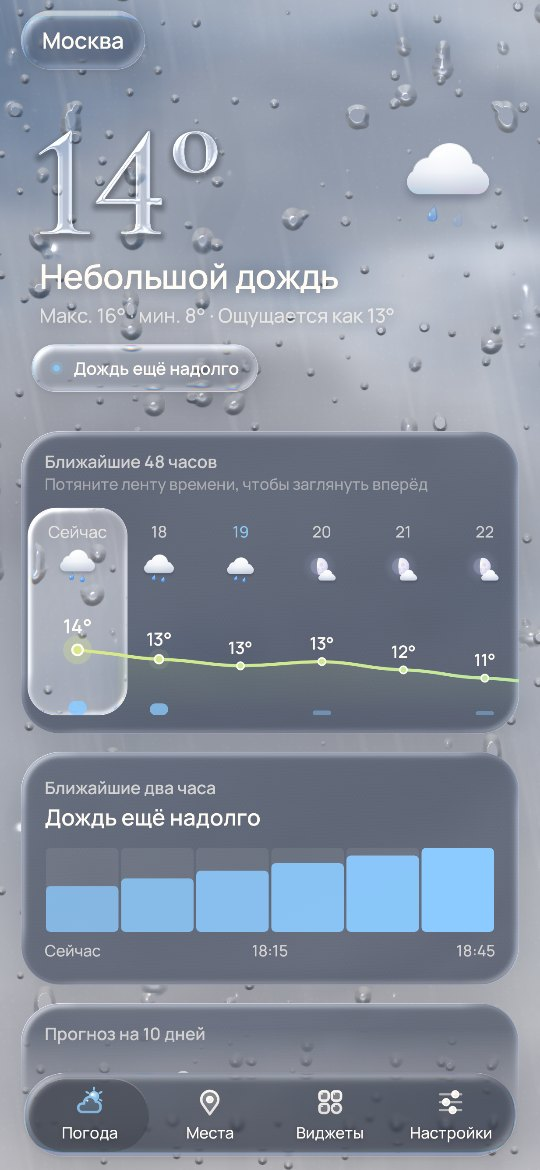
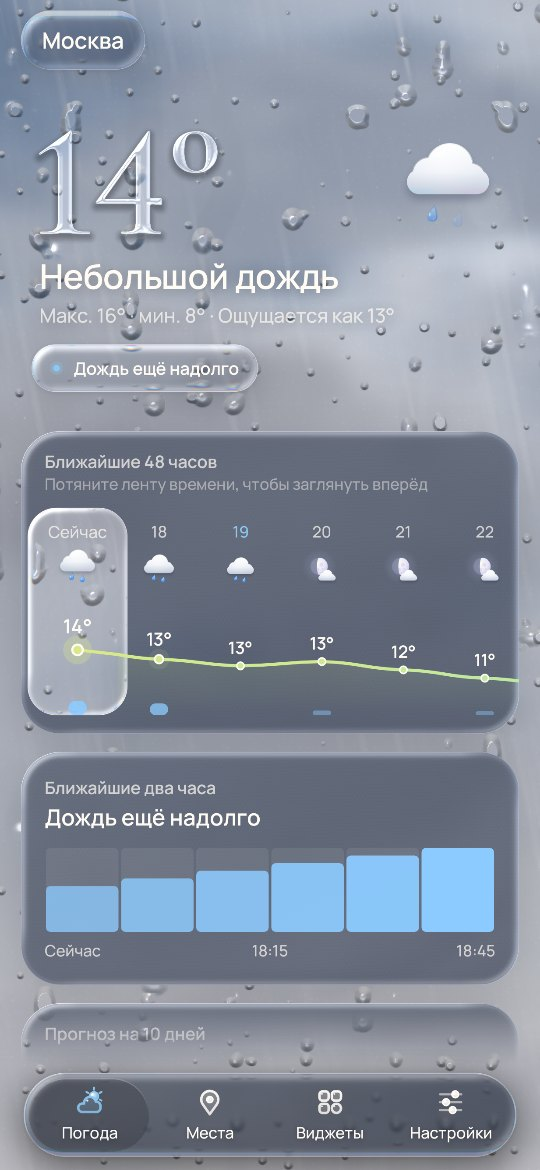
Tab bar: a layer of its own, apart from the content (2.6.1)
On the phone at night the bar and the 10-day card under it ran together.
Both were the same dark glass with the same rim, and the card's rows
went straight into the bar, so the menu read as part of the app.

- Content fades out before the bar. Whatever scrolls toward the bar has
  dissolved into the sky within 40 dp of it, so the bar floats in a band
  of clear sky. Screens keep room below their content for the band, so
  the last card still scrolls fully into view.
- A deep shadow under the bar that shows even over a night sky or a
  dark card.
- A tone of its own: by night the bar's glass is a little lighter than
  the cards' dark glass, and on a bright day a little darker.
- A crisp edge all round: light over dark skies, and a light top with a
  faint dark bottom over light ones.

Measured as the contrast of the bar against the band just above it:
night 1.29:1 -> 1.71:1, sunny 1.29:1 -> 1.82:1, rain 1.56:1 -> 2.20:1.
The screen gallery now holds the bar to at least 1.5:1 by day, by night
and in rain.

Claude-Session: https://claude.ai/code/session_014VsCMqPGtS92FpaWDiRjsh

Changed region(s): [[0.0296, 0.8615, 0.9778, 0.9231], [0.0296, 0.9538, 0.9778, 1.0]]

diff --git a/rosa-weather/app/src/test/kotlin/app/rosa/weather/ui/ScreenGalleryTest.kt b/rosa-weather/app/src/test/kotlin/app/rosa/weather/ui/ScreenGalleryTest.kt
@@ -60,13 +60,35 @@ import org.robolectric.annotation.GraphicsMode
 class ScreenGalleryTest {
     @get:Rule val compose = createComposeRule()
 
-    private fun capture(name: String, doc: Boolean) {
+    private fun capture(name: String, doc: Boolean): Bitmap {
         compose.mainClock.advanceTimeBy(2_500)
         compose.waitForIdle()
         val bitmap = compose.onRoot().captureToImage().asAndroidBitmap()
         val out = File("build/screens").apply { mkdirs() }
         File(out, "$name.png").outputStream().use { bitmap.compress(Bitmap.CompressFormat.PNG, 100, it) }
         if (doc) exportDocImage(bitmap, name, 540)
+        return bitmap
+    }
+
+    /**
+     * The tab bar reads as a layer of its own, not as part of the card under it: its glass stands
+     * apart in tone from the band just above it, where whatever scrolls toward the bar has faded
+     * into the sky. (It ran together with the dark glass of the cards at night in 2.6.0: 1.29:1.)
+     */
+    private fun assertBarStandsApart(bitmap: Bitmap, name: String) {
+        val d = 3
+        // The bar: 64 dp tall, 10 dp above the bottom (no system bar here).
+        val top = bitmap.height - (10 + 64) * d
+        fun lum(c: Int): Double {
+            fun ch(v: Int): Double = (v / 255.0).let { if (it <= 0.03928) it / 12.92 else Math.pow((it + 0.055) / 1.055, 2.4) }
+            return 0.2126 * ch(android.graphics.Color.red(c)) + 0.7152 * ch(android.graphics.Color.green(c)) + 0.0722 * ch(android.graphics.Color.blue(c))
+        }
+        val xs = 40 * d until bitmap.width - 40 * d step 3
+        val bar = xs.map { lum(bitmap.getPixel(it, top + 8 * d)) }.average()
+        val above = (top - 30 * d until top - 6 * d step 3).flatMap { y -> xs.map { lum(bitmap.getPixel(it, y)) } }.average()
+        val ratio = (maxOf(bar, above) + 0.05) / (minOf(bar, above) + 0.05)
+        println("$name: tab bar %.3f, above it %.3f, %.2f:1".format(java.util.Locale.ROOT, bar, above, ratio))
+        com.google.common.truth.Truth.assertWithMessage("$name: the tab bar against what lies just above it").that(ratio).isAtLeast(1.5)
     }
 
     /** @param doc also export the render as a README image (with `-Prosa.docs`). */
@@ -79,7 +101,7 @@ class ScreenGalleryTest {
         appearance: Appearance = Appearance.Auto,
         forecastAgeSeconds: Long = 0,
         scrollPx: Float = 0f,
-    ) {
+    ): Bitmap {
         val forecast = SampleForecast.create(scenario, nowEpochSeconds = now - forecastAgeSeconds, placeId = "geo:1").shifted(shiftCelsius)
         val state = HomeUiState(
             loaded = true,
@@ -109,7 +131,7 @@ class ScreenGalleryTest {
                 swipe(from, from - Offset(0f, scrollPx), durationMillis = 1_200)
             }
         }
-        capture(name, doc)
+        return capture(name, doc)
     }
 
     /** First launch: the sheet, and its buttons set into it (never glass on glass). */
@@ -201,40 +223,56 @@ class ScreenGalleryTest {
 
     /** Scrolled: the cards fade into the sky under the floating bar (scroll edge effect). */
     @Test
-    fun homeScrolled() = home(SampleForecast.Scenario.SunnyMild, 1_758_621_600L, "home-scrolled", doc = false, scrollPx = 820f)
+    fun homeScrolled() {
+        home(SampleForecast.Scenario.SunnyMild, 1_758_621_600L, "home-scrolled", doc = false, scrollPx = 820f)
+    }
 
     @Test
-    fun homeScrolledNight() = home(SampleForecast.Scenario.ClearNight, 1_758_664_800L, "home-scrolled-night", doc = false, scrollPx = 820f)
+    fun homeScrolledNight() {
+        home(SampleForecast.Scenario.ClearNight, 1_758_664_800L, "home-scrolled-night", doc = false, scrollPx = 820f)
+    }
 
     /** 17:30 in Moscow, light rain on the pane. */
     @Test
-    fun homeRainy() = home(SampleForecast.Scenario.RainyAfternoon, 1_758_637_800L, "home-rainy", forecastAgeSeconds = 2_400)
+    fun homeRainy() = assertBarStandsApart(home(SampleForecast.Scenario.RainyAfternoon, 1_758_637_800L, "home-rainy", forecastAgeSeconds = 2_400), "home-rainy")
 
     @Test
-    fun homeNight() = home(SampleForecast.Scenario.ClearNight, 1_758_664_800L, "home-night")
+    fun homeNight() = assertBarStandsApart(home(SampleForecast.Scenario.ClearNight, 1_758_664_800L, "home-night"), "home-night")
 
     @Test
-    fun homeSnow() = home(SampleForecast.Scenario.SnowyCold, 1_758_610_800L, "home-snow")
+    fun homeSnow() {
+        home(SampleForecast.Scenario.SnowyCold, 1_758_610_800L, "home-snow")
+    }
 
     @Test
-    fun homeSunny() = home(SampleForecast.Scenario.SunnyMild, 1_758_621_600L, "home-sunny")
+    fun homeSunny() = assertBarStandsApart(home(SampleForecast.Scenario.SunnyMild, 1_758_621_600L, "home-sunny"), "home-sunny")
 
     /** 09:13 in Moscow, mostly clear: the low eastern sun used to sit right behind the numerals. */
     @Test
-    fun homeMorning() = home(SampleForecast.Scenario.SunnyMild, 1_758_607_980L, "home-morning", doc = false)
+    fun homeMorning() {
+        home(SampleForecast.Scenario.SunnyMild, 1_758_607_980L, "home-morning", doc = false)
+    }
 
     /** Same morning at −12°: the widest numerals must still keep the sun clear of them. */
     @Test
-    fun homeMorningFrost() = home(SampleForecast.Scenario.SunnyMild, 1_758_607_980L, "home-morning-frost", shiftCelsius = -30.0, doc = false)
+    fun homeMorningFrost() {
+        home(SampleForecast.Scenario.SunnyMild, 1_758_607_980L, "home-morning-frost", shiftCelsius = -30.0, doc = false)
+    }
 
     @Test
-    fun homeLight() = home(SampleForecast.Scenario.SunnyMild, 1_758_607_980L, "home-mode-light", doc = false, appearance = Appearance.Light)
+    fun homeLight() {
+        home(SampleForecast.Scenario.SunnyMild, 1_758_607_980L, "home-mode-light", doc = false, appearance = Appearance.Light)
+    }
 
     @Test
-    fun homeEveningMode() = home(SampleForecast.Scenario.SunnyMild, 1_758_607_980L, "home-mode-evening", doc = false, appearance = Appearance.Evening)
+    fun homeEveningMode() {
+        home(SampleForecast.Scenario.SunnyMild, 1_758_607_980L, "home-mode-evening", doc = false, appearance = Appearance.Evening)
+    }
 
     @Test
-    fun homeDarkMode() = home(SampleForecast.Scenario.RainyAfternoon, 1_758_628_800L, "home-mode-dark", doc = false, appearance = Appearance.Dark)
+    fun homeDarkMode() {
+        home(SampleForecast.Scenario.RainyAfternoon, 1_758_628_800L, "home-mode-dark", doc = false, appearance = Appearance.Dark)
+    }
 
     @Test
     fun appearancePicker() {
@@ -278,7 +316,9 @@ class ScreenGalleryTest {
 
     /** 17:40, the sun low in the west. */
     @Test
-    fun homeEvening() = home(SampleForecast.Scenario.SunnyMild, 1_758_638_400L, "home-evening", doc = false)
+    fun homeEvening() {
+        home(SampleForecast.Scenario.SunnyMild, 1_758_638_400L, "home-evening", doc = false)
+    }
 }
 
 private fun Forecast.shifted(celsius: Double): Forecast = if (celsius == 0.0) this else copy(

diff --git a/rosa-weather/core/designsystem/src/main/kotlin/app/rosa/weather/core/designsystem/component/TabBar.kt b/rosa-weather/core/designsystem/src/main/kotlin/app/rosa/weather/core/designsystem/component/TabBar.kt
@@ -35,11 +35,13 @@ import androidx.compose.runtime.setValue
 import androidx.compose.ui.Alignment
 import androidx.compose.ui.Modifier
 import androidx.compose.ui.draw.clip
+import androidx.compose.ui.draw.dropShadow
 import androidx.compose.ui.geometry.Offset
 import androidx.compose.ui.graphics.Brush
 import androidx.compose.ui.graphics.Color
 import androidx.compose.ui.graphics.Shadow
 import androidx.compose.ui.graphics.graphicsLayer
+import androidx.compose.ui.graphics.shadow.Shadow as DropShadow
 import androidx.compose.ui.graphics.lerp
 import androidx.compose.ui.input.pointer.pointerInput
 import androidx.compose.ui.semantics.Role
@@ -48,6 +50,7 @@ import androidx.compose.ui.semantics.role
 import androidx.compose.ui.semantics.selected
 import androidx.compose.ui.semantics.semantics
 import androidx.compose.ui.text.style.TextAlign
+import androidx.compose.ui.unit.DpOffset
 import androidx.compose.ui.unit.IntOffset
 import androidx.compose.ui.unit.dp
 import app.rosa.weather.core.designsystem.glass.GlassStyle
@@ -113,11 +116,21 @@ fun GlassTabBar(
 
     BoxWithConstraints(modifier.fillMaxWidth().height(GlassTabBarHeight)) {
         val segment = (maxWidth - Inset * 2) / count
+        // A layer of its own above the content: a deep shadow that still shows over a night sky
+        // or a dark card, so the bar never reads as part of what lies under it.
+        Box(Modifier.fillMaxSize().dropShadow(shape, DropShadow(radius = 26.dp, color = Color.Black, offset = DpOffset(0.dp, 8.dp), alpha = if (colors.isLightSky) 0.2f else 0.45f)))
         // The capsule itself: denser than a button's glass, so its names read over the bright
         // horizon at the bottom of the sky.
         GlassSurface(Modifier.fillMaxSize(), style = BarGlass, cornerRadius = GlassTabBarHeight / 2, touchResponsive = false) {}
-        // Past the densest the glass may get, a bright blue day dims it a little more.
-        if (bright > 0f) Box(Modifier.fillMaxSize().clip(shape).background(Color.Black.copy(alpha = 0.12f * bright)))
+        // Its own tone: by night a little lighter than the dark glass of the cards, on a bright
+        // blue day a little darker than the glass may get on its own; and a crisp edge all round.
+        val tone = if (colors.isLightSky) Color.Transparent else lerp(Color.White.copy(alpha = 0.08f), Color.Black.copy(alpha = 0.12f), bright)
+        val edge = if (colors.isLightSky) {
+            Brush.verticalGradient(0f to Color.White.copy(alpha = 0.95f), 1f to Color.Black.copy(alpha = 0.12f))
+        } else {
+            Brush.verticalGradient(0f to Color.White.copy(alpha = 0.4f), 1f to Color.White.copy(alpha = 0.12f))
+        }
+        Box(Modifier.fillMaxSize().clip(shape).background(tone).border(1.dp, edge, shape))
         // The drop spans both of its edges and stays inside the bar: at the last tab it squashes
         // against the wall. Stretched, it thins a little, as liquid keeps its volume.
         val drop = Modifier

diff --git a/rosa-weather/app/src/main/kotlin/app/rosa/weather/ui/common/TabBarScaffold.kt b/rosa-weather/app/src/main/kotlin/app/rosa/weather/ui/common/TabBarScaffold.kt
@@ -75,7 +75,9 @@ fun TabBarScaffold(selected: RosaTab?, onSelect: (RosaTab) -> Unit, content: @Co
     var last by remember { mutableStateOf(selected ?: RosaTab.Weather) }
     SideEffect { if (selected != null) last = selected }
     val shown = selected ?: last
-    val inset = if (selected != null) navigation + GlassTabBarHeight + BarGap + 10.dp else 0.dp
+    // Room for the bar and for the band of clear sky above it, so the last card can scroll into
+    // full view above the fade.
+    val inset = if (selected != null) navigation + BarGap + GlassTabBarHeight + ClearAbove else 0.dp
     val tabs = RosaTab.entries.map { GlassTab(it.icon, stringResource(it.label)) }
     CompositionLocalProvider(LocalTabBarInset provides inset) {
         Box(Modifier.fillMaxSize()) {
@@ -87,9 +89,11 @@ fun TabBarScaffold(selected: RosaTab?, onSelect: (RosaTab) -> Unit, content: @Co
                 exit = slideOutVertically(RosaMotion.gelOffset) { it } + fadeOut(),
             ) {
                 Box(contentAlignment = Alignment.BottomCenter) {
+                    // The bar floats in a band of clear sky: whatever scrolls down toward it has
+                    // faded out before it gets there, so the two never run together.
                     SkyScrollEdge(
-                        height = navigation + BarGap + GlassTabBarHeight + 34.dp,
-                        solid = navigation + BarGap + GlassTabBarHeight / 2,
+                        height = navigation + BarGap + GlassTabBarHeight + ClearAbove + 10.dp,
+                        solid = navigation + BarGap + GlassTabBarHeight + 6.dp,
                         atBottom = true,
                     )
                     GlassTabBar(
@@ -106,3 +110,6 @@ fun TabBarScaffold(selected: RosaTab?, onSelect: (RosaTab) -> Unit, content: @Co
 
 /** Between the tab bar and the bottom of the screen (or the system's navigation bar). */
 private val BarGap = 10.dp
+
+/** The clear sky kept above the bar, where content fades out. */
+private val ClearAbove = 40.dp

diff --git a/rosa-weather/README.md b/rosa-weather/README.md
@@ -65,8 +65,12 @@ Android-приложение погоды для Android 13–17 (target/compile
   таблетка выбранной вкладки темнеет, а не светлеет. Над светлым пасмурным небом выбранная вкладка
   становится глубоко-синей. Контраст подписей замерен по пикселям на семи экранах: не ниже 4,8:1
   (норма WCAG — 4,5:1).
-- Содержимое экранов прокручивается до панели и растворяется в небе перед ней, как под панелями
-  Apple.
+- **Панель — отдельный слой, а не часть карточки под ней.** Всё, что прокручивается к панели,
+  растворяется в небе за 40 dp до неё, так что панель висит в полосе чистого неба. Под ней
+  глубокая тень, видная даже ночью; ночью её стекло чуть светлее тёмного стекла карточек, в яркий
+  день чуть темнее; по кромке идёт чёткий светлый кант. Тест меряет контраст панели с полосой над
+  ней: ночью 1,71:1, днём 1,82:1, в дождь 2,2:1. В 2.6.0 было 1,29:1, и ночью панель сливалась с
+  карточкой прогноза.
 
 <img src="docs/images/tab-bar-screens.jpg" width="100%" />
 
